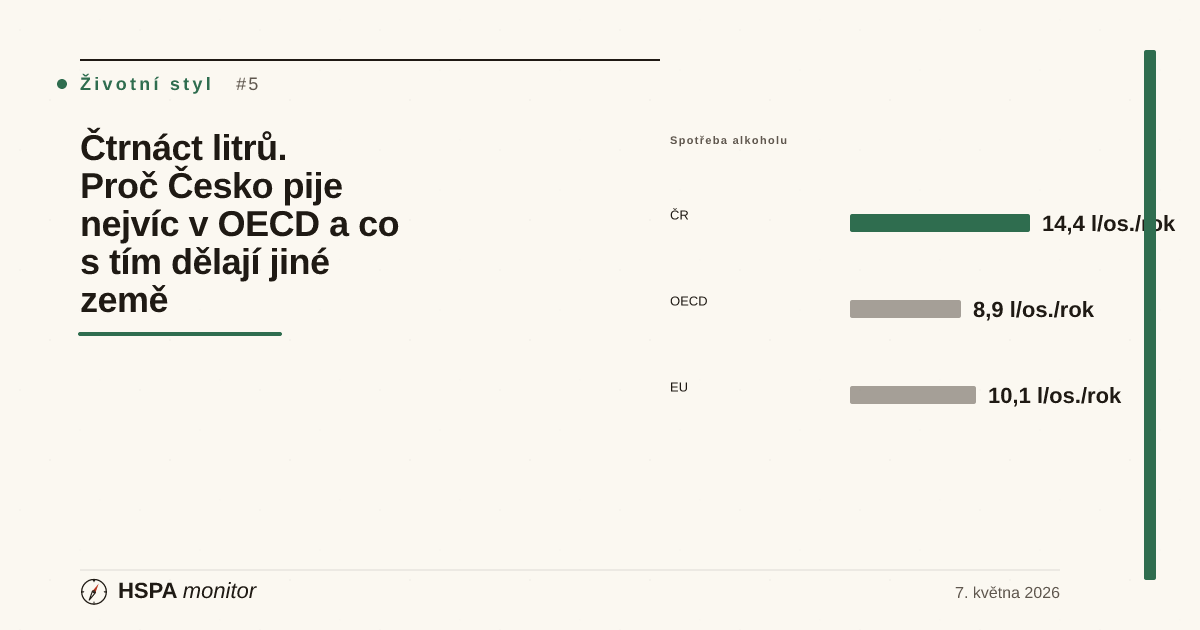
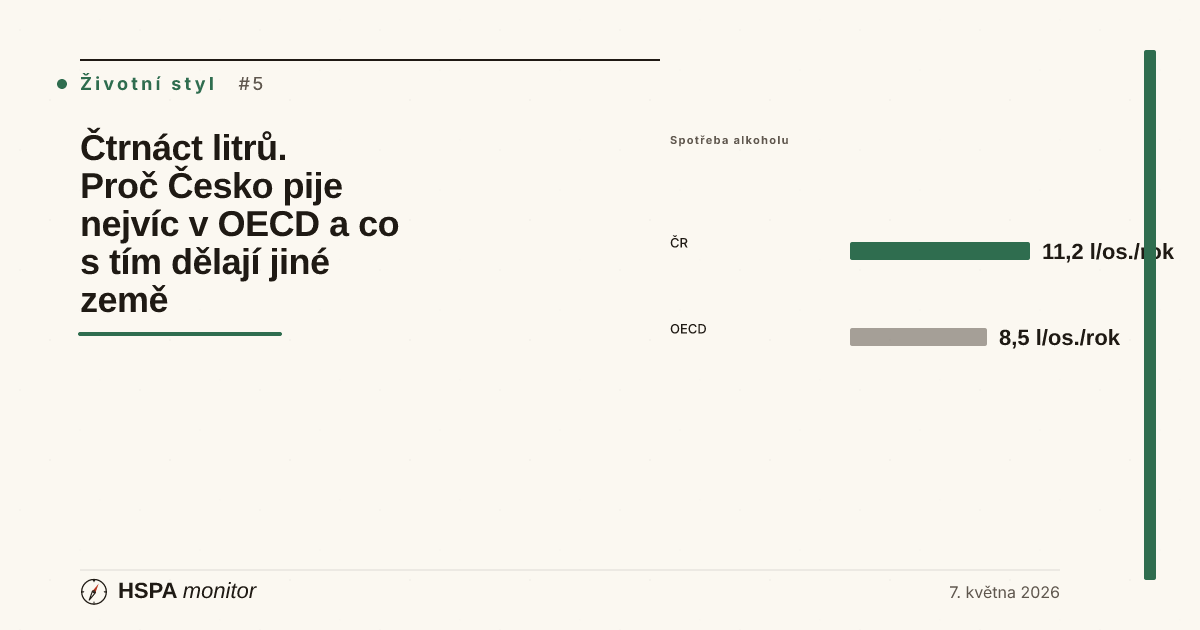
chore(audit): clanek-alkohol-spotreba — opraveny 3 nálezy (cover_viz bez míchání WHO/OECD, OECD 2024 = 10,6 l, odkaz OECD)
Claude-Session: https://claude.ai/code/session_01G7L4QvaTb9bDQ9o421w31g

diff --git a/05_M1_Starter/clanek-alkohol-spotreba.html b/05_M1_Starter/clanek-alkohol-spotreba.html
@@ -12,10 +12,10 @@
 <meta property="og:locale" content="cs_CZ">
 <meta property="article:published_time" content="2026-05-07">
 <meta property="article:section" content="Životní styl">
-<meta name="article:audit-status" content="verified">
+<meta name="article:audit-status" content="review-pending">
 <!--
   audit:
-    last_reviewed: 2026-05-17
+    last_reviewed: 2026-10-31
     reviewer: claude-code-agent
     status: review-pending
     unverified_claims_removed: 0
@@ -25,6 +25,7 @@
     f1_2026-07-10: "Audit (F1): alkohol 11,2 l OECD H@G vs 14,4 l WHO korektně rozlišen s metodickou poznámkou (past decisions-log dodržena). KV mortalita 463,75, sebevražednost 11,59 sedí. OPRAVEN drift: preventabilní mortalita 195/168 (2022) → 174/151 EU (2023, Eurostat), claim --07 sladěn. Status review-pending → verified."
     fix_2026-10-26: "databox: preventabilní mortalita 195 vs. EU 168 (2022) → 173,9 vs. EU 150,9 (2023, Eurostat hlth_cd_apr); text a claim --07 už měly 174/151 (issue #1305)"
     reconcile_2026-07-12: "alkohol_spotreba 14,4/8,9 → recorded 11,2/8,5 (OECD H@G 2025, issue #690 varianta A); methodology caveat doplněn."
+    fallback_audit_2026-10-31: "Ověřeno proti primárním zdrojům (staženo 2026-10-31): OECD SDMX DF_HEALTH_LVNG_AC (https://sdmx.oecd.org/public/rest/data/OECD.ELS.HD,DSD_HEALTH_LVNG@DF_HEALTH_LVNG_AC,/all) — ČR 2021=11,6, 2022=11,6, 2023=11,2, 2024=10,6 (nová vlna OECD Health Statistics 2026; agregát OECD v datové sadě není); OECD H@G 2025 country profile Czechia 11,2 vs OECD 8,5 (2023) potvrzeno; WHO GSR 2024 odkaz 200 a obsah sedí; odkaz oecd.org/en/topics/health-statistics-and-data.html vrací 403 → nahrazen odkazem na OECD Data Explorer (200). ZMĚNY: (1) articles.json cover_viz 14,4/8,9/10,1 (míchal WHO total s OECD recorded, EU recorded průměr OECD nepublikuje) → 11,2/8,5 recorded/recorded, řádek EU odstraněn, cover přegenerován; (2) caveat, datový rámec a pozn. k hodnotám doplněny o novější hodnotu ČR 2024 = 10,6 l; (3) pozn. k hodnotám opravena — indikátor alkohol_spotreba už neukazuje 11,2, ale 10,6 (2024). Status verified → review-pending. K ROZHODNUTÍ REDAKCE: titulek Čtrnáct litrů / nejvíc v OECD (OECD 2023 recorded: ČR 4. ze 38 za PRT, LVA, AUT; 2024: ČR 10,6 mimo top 5); WHO total ~14 l a OECD ⌀ ~8,7 l (+60 %) neověřeno (WHO GHO API 500); národní odhad ČSÚ/SZÚ ~14,4 l bez dohledaného primárního zdroje (Souhrn Zprávy o alkoholu v ČR 2024, uv.gov.cz, uvádí ~10 l etanolu na obyvatele vč. dětí); věta o politice ČR (víno nulová spotřební daň) neověřována podrobně."
 -->
 <link rel="stylesheet" href="src/styles.min.css">
 <link rel="alternate" type="application/rss+xml" title="HSPA Monitor — články" href="/feed.xml">
@@ -140,7 +141,7 @@
       </p>
       <aside class="article-callout article-callout-caveat" aria-label="Caveat — OECD vs WHO metodika měření spotřeby alkoholu" style="margin:18px 0;padding:14px 18px;border-left:3px solid var(--ink);background:var(--paper);font-family:var(--sans);font-size:13.5px;line-height:1.55;color:var(--ink-mut);">
         <p style="margin:0 0 6px 0;color:var(--ink);font-size:13px;letter-spacing:0.04em;text-transform:uppercase;">Caveat — která hodnota je „pravá"</p>
-        <p style="margin:0 0 6px 0;"><strong>OECD Health at a Glance 2025 (recorded):</strong> 11,2 l čistého alkoholu / obyv. 15+ pro ČR, OECD průměr 8,5 l. Vychází z národních prodejních a daňových statistik (v ČR: ČSÚ). Neobsahuje odhad neregistrované spotřeby.</p>
+        <p style="margin:0 0 6px 0;"><strong>OECD Health at a Glance 2025 (recorded):</strong> 11,2 l čistého alkoholu / obyv. 15+ pro ČR, OECD průměr 8,5 l (rok 2023). Vychází z národních prodejních a daňových statistik (v ČR: ČSÚ). Neobsahuje odhad neregistrované spotřeby. Novější vlna OECD Health Statistics 2026 uvádí pro ČR za rok 2024 <strong>10,6 l</strong>; průměr OECD za stejný rok datová sada neuvádí, proto srovnání s průměrem držíme u roku 2023.</p>
         <p style="margin:0 0 6px 0;"><strong>WHO Global Status Report on Alcohol / národní odhady (total):</strong> ~14 l pro ČR; národní odhad (ČSÚ/SZÚ) ~14,4 l. Kombinují registrovanou spotřebu s modelovým odhadem neregistrované (domácí destiláty, přeshraniční nákupy, turistický alkohol) — s průměrem OECD, který zahrnuje jen registrovanou spotřebu, je proto nelze přímo srovnávat.</p>
         <p style="margin:0;">Rozdíl 11,2 vs ~14 l není chyba — jsou to dva různě konstruované indikátory. V tomto článku používáme primárně <strong>OECD H@G 2025 hodnotu (11,2 l)</strong> jako srovnatelný indikátor napříč OECD zeměmi; tam, kde používáme „14 l" (titulek, některé pasáže), odkazujeme na WHO metodiku, která je v české veřejné debatě citovanější.</p>
       </aside>
@@ -266,7 +267,7 @@
       <div class="ed-kicker">Data v tomto článku</div>
       <h4 class="article-databox-h">Indikátory HSPA Monitoru, ze kterých text vychází</h4>
       <ul class="article-databox-list">
-        <li><a href="indikator-alkohol_spotreba.html"><strong>Spotřeba alkoholu (čistý alkohol, 15+)</strong></a> — 11,2 l/os./rok (2023, registrovaná spotřeba) vs. OECD 8,5 (OECD Health at a Glance 2025)</li>
+        <li><a href="indikator-alkohol_spotreba.html"><strong>Spotřeba alkoholu (čistý alkohol, 15+)</strong></a> — 11,2 l/os./rok (2023, registrovaná spotřeba) vs. OECD 8,5 (OECD Health at a Glance 2025); za rok 2024 10,6 l (OECD Health Statistics 2026)</li>
         <li><a href="indikator-mortalita_kardiovaskularni.html"><strong>Kardiovaskulární mortalita (standardizovaná)</strong></a> — 463,75 / 100 000 vs. EU-27 312,95 (Eurostat, 2023)</li>
         <li><a href="indikator-mortalita_preventabilni.html"><strong>Preventabilní mortalita</strong></a> — 173,9 / 100 000 vs. EU 150,9 (Eurostat, 2023)</li>
         <li><a href="indikator-sebevrazdy_per_100k.html"><strong>Sebevraždy (standardizovaná míra)</strong></a> — 11,59 / 100 000 vs. EU 10,37 (Eurostat, 2023)</li>
@@ -282,7 +283,7 @@
       <div class="sources-group">
         <h5 class="sources-group-h">Data</h5>
         <ul class="article-sources-list">
-          <li><strong>OECD Health Statistics — Alcohol consumption</strong> — primární zdroj pro mezinárodní srovnání spotřeby. <a href="https://www.oecd.org/en/topics/health-statistics-and-data.html" target="_blank" rel="noopener">oecd.org ↗</a></li>
+          <li><strong>OECD Health Statistics — Alcohol consumption</strong> — primární zdroj pro mezinárodní srovnání spotřeby. <a href="https://data-explorer.oecd.org/vis?df[ds]=dsDisseminateFinalDMZ&amp;df[id]=DSD_HEALTH_LVNG%40DF_HEALTH_LVNG_AC&amp;df[ag]=OECD.ELS.HD" target="_blank" rel="noopener">data-explorer.oecd.org ↗</a></li>
           <li><strong>WHO Global Status Report on Alcohol and Health</strong> — globální monitoring spotřeby a souvisejících úmrtí. <a href="https://www.who.int/publications/i/item/9789240096745" target="_blank" rel="noopener">who.int ↗</a></li>
           <li><strong>SZÚ — Státní zdravotní ústav</strong> — domácí monitoring spotřeby a zdravotních dopadů. <a href="https://szu.cz/" target="_blank" rel="noopener">szu.cz ↗</a></li>
         </ul>
@@ -302,7 +303,7 @@
         </ul>
       </div>
       <p class="article-sources-disclaimer">
-        <strong>Pozn. k hodnotám:</strong> Číslo 11,2 l/os./rok (2023) pochází z indikátoru `alkohol_spotreba` v dashboardu HSPA Monitoru — registrovaná (recorded) spotřeba podle OECD <em>Health at a Glance 2025</em>, benchmark = průměr OECD 8,5 l. Národní odhad včetně neregistrované spotřeby (přeshraniční nákupy, domácí výroba; ČSÚ/SZÚ) činí ~14,4 l a s průměrem OECD ho nelze přímo srovnávat. Pro letošní aktuální čísla doporučujeme konzultovat OECD Health Statistics nebo WHO Global Status Report. Konkrétní výpočty etanolu v nápojích jsou orientační — záleží na obsahu alkoholu v daném produktu.
+        <strong>Pozn. k hodnotám:</strong> Číslo 11,2 l/os./rok (2023) je registrovaná (recorded) spotřeba podle OECD <em>Health at a Glance 2025</em>, benchmark = průměr OECD 8,5 l. Indikátor `alkohol_spotreba` v dashboardu HSPA Monitoru už ukazuje novější hodnotu 10,6 l za rok 2024 (OECD Health Statistics 2026). Národní odhad včetně neregistrované spotřeby (přeshraniční nákupy, domácí výroba; ČSÚ/SZÚ) činí ~14,4 l a s průměrem OECD ho nelze přímo srovnávat. Pro letošní aktuální čísla doporučujeme konzultovat OECD Health Statistics nebo WHO Global Status Report. Konkrétní výpočty etanolu v nápojích jsou orientační — záleží na obsahu alkoholu v daném produktu.
       </p>
       <p class="article-sources-disclaimer">
         <strong>Oprava (26. 10. 2026):</strong> V datovém rámci článku byla preventabilní mortalita uvedena podle starší hodnoty (195 / 100 000 vs. EU 168, rok 2022). Podle Eurostatu (hlth_cd_apr) je pro rok 2023 v ČR 173,9 a v EU-27 150,9 na 100 000 obyvatel; text článku už uváděl správné zaokrouhlené hodnoty 174 vs. 151.
